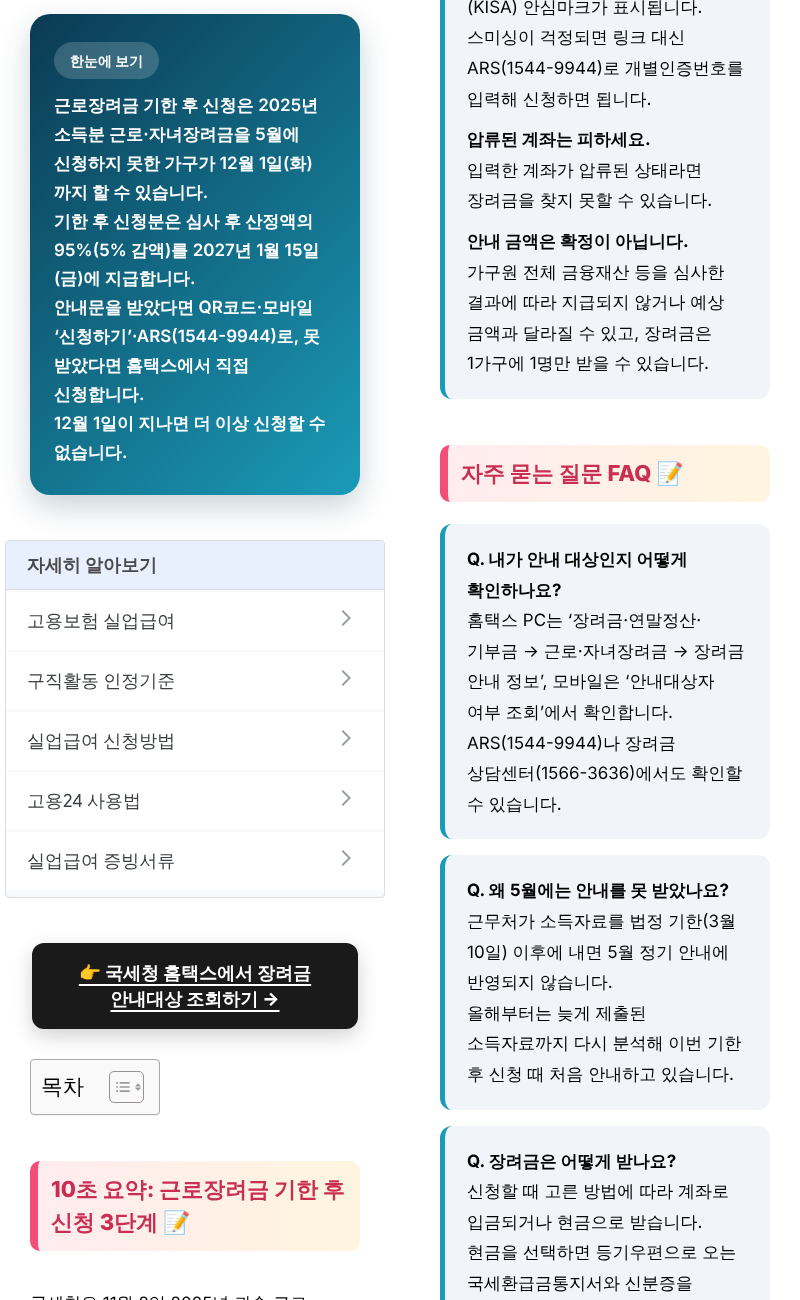
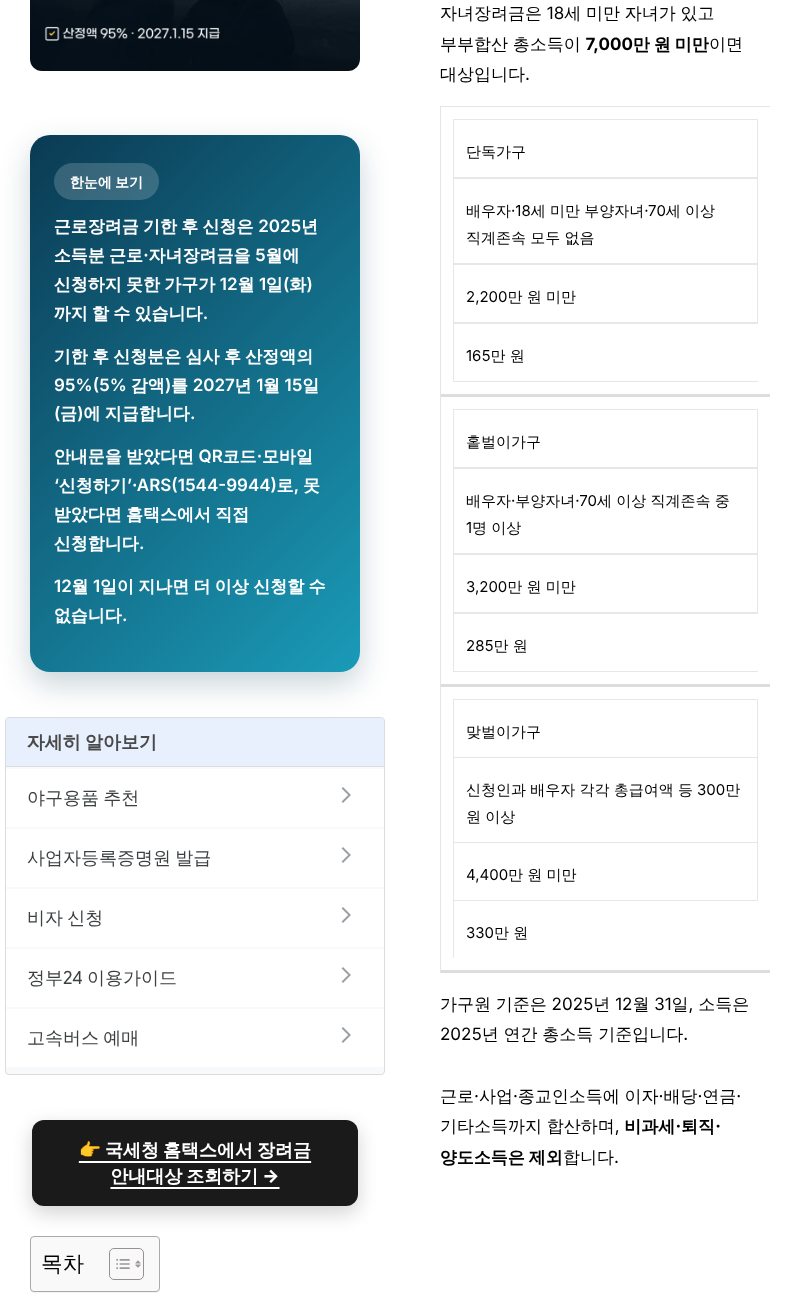
문장 사이 빈 줄 적용(디피로그 규칙 갱신)
Claude-Session: https://claude.ai/code/session_01Yan3NyTgRSbnPhHHKMb2cm

Changed region(s): [[0.0312, 0.0, 0.4688, 1.0], [0.5312, 0.3385, 0.9688, 1.0], [0.5312, 0.0, 0.9375, 0.3077]]

diff --git a/content/2026-11-06_근로자녀장려금-기한후신청/01_difilog_post.html b/content/2026-11-06_근로자녀장려금-기한후신청/01_difilog_post.html
@@ -17,7 +17,7 @@
 #onepage-eitc p{font-size:17px;line-height:1.8;}
 #onepage-eitc .difi-hero{background:linear-gradient(135deg,#0B3A53,#1A9BB8);color:#fff;padding:28px 24px;border-radius:20px;margin:20px 0;box-shadow:0 12px 30px rgba(11,58,83,.22);}
 #onepage-eitc .difi-hero .tag{display:inline-block;background:rgba(255,255,255,.18);padding:6px 16px;border-radius:999px;font-size:14px;font-weight:700;margin-bottom:12px;}
-#onepage-eitc .difi-hero .sum p{color:#fff;font-size:17px;line-height:1.7;margin:0;font-weight:600;}
+#onepage-eitc .difi-hero .sum p{color:#fff;font-size:17px;line-height:1.7;margin:0 0 14px;font-weight:600;}
 #onepage-eitc .difi-toc{background:#fff;padding:20px 24px;border-radius:12px;margin:16px 0 18px;color:#1f2937;}
 #onepage-eitc .difi-toc a{color:#1f2937 !important;text-decoration:none;}
 #onepage-eitc .difi-card{background:#fff;border:1px solid #e5e7eb;border-radius:20px;padding:24px;margin:16px 0;box-shadow:0 8px 24px rgba(15,23,42,.05);}
@@ -42,18 +42,18 @@
 <p><a class="detail-button" href="https://www.hometax.go.kr/" target="_blank" rel="noopener">👉 국세청 홈택스에서 장려금 안내대상 조회하기 →</a></p>
 
 <h2 id="sec1">10초 요약: 근로장려금 기한 후 신청 3단계 📝</h2>
-<p>국세청은 11월 2일 2025년 귀속 근로·자녀장려금을 아직 신청하지 않은 <strong>26만 가구</strong>에 기한 후 신청 안내문을 보냈습니다.<br>
+<p>국세청은 11월 2일 2025년 귀속 근로·자녀장려금을 아직 신청하지 않은 <strong>26만 가구</strong>에 기한 후 신청 안내문을 보냈습니다.<br><br>
 올해는 5월 이후 추가로 확인된 소득자료를 분석해 1만 가구도 새로 포함했습니다.</p>
 <div class="difi-card">
 <p style="margin:0 0 10px;"><strong>1단계</strong> · 안내대상인지 조회: 모바일 홈택스 <strong>'장려금·연말정산·기부금 → 근로·자녀장려금 → 안내대상자 여부 조회'</strong></p>
 <p style="margin:0 0 10px;"><strong>2단계</strong> · 신청: 우편 안내문 QR코드, 카카오톡·토스·문자 안내문의 '신청하기', 또는 ARS 1544-9944(06시~24시)</p>
 <p style="margin:0;"><strong>3단계</strong> · 지급방법 선택: 계좌 입금 또는 현금 수령 → 2027년 1월 15일(금) 지급 예정</p>
 </div>
-<p>모바일 홈택스와 ARS는 오전 6시부터 밤 12시까지 이용할 수 있습니다.<br>
+<p>모바일 홈택스와 ARS는 오전 6시부터 밤 12시까지 이용할 수 있습니다.<br><br>
 마감일인 12월 1일 밤에는 접속이 몰릴 수 있으니 미리 신청하는 편이 안전합니다.</p>
 
 <h2 id="sec2">30초 자가진단 + 소득 요건 비교 💡</h2>
-<p>근로장려금 기한 후 신청은 안내문이 없어도 할 수 있습니다.<br>
+<p>근로장려금 기한 후 신청은 안내문이 없어도 할 수 있습니다.<br><br>
 아래 5가지에 모두 해당하면 12월 1일까지 신청해 보세요.</p>
 <div class="difi-card">
 <p style="margin:0 0 12px;"><strong>☑ 2025년에 일한 소득이 있다</strong> · 근로·사업·종교인소득. 지금은 퇴직했어도 해당</p>
@@ -62,9 +62,9 @@
 <p style="margin:0 0 12px;"><strong>☑ 5월 정기 신청을 하지 않았다</strong></p>
 <p style="margin:0;"><strong>☑ 우리 가구에서 다른 사람이 신청하지 않았다</strong> · 장려금은 1가구 1명만 지급</p>
 </div>
-<p>재산이 1억 7천만 원 이상이면 산정액의 50%만 지급되니 금액 기대치를 미리 낮춰 두세요.<br>
+<p>재산이 1억 7천만 원 이상이면 산정액의 50%만 지급되니 금액 기대치를 미리 낮춰 두세요.<br><br>
 가구 유형은 아래 표로 구분합니다.</p>
-<p>근로장려금은 가구 유형별로 2025년 부부합산 총소득 기준이 다릅니다.<br>
+<p>근로장려금은 가구 유형별로 2025년 부부합산 총소득 기준이 다릅니다.<br><br>
 자녀장려금은 18세 미만 자녀가 있고 부부합산 총소득이 <strong>7,000만 원 미만</strong>이면 대상입니다.</p>
 <table class="difi-table">
 <thead><tr><th>가구 유형</th><th>가구원 기준</th><th>근로장려금 소득 기준</th><th>근로장려금 최대</th></tr></thead>
@@ -74,7 +74,7 @@
 <tr><td>맞벌이가구</td><td>신청인과 배우자 각각 총급여액 등 300만 원 이상</td><td>4,400만 원 미만</td><td>330만 원</td></tr>
 </tbody>
 </table>
-<p>가구원 기준은 2025년 12월 31일, 소득은 2025년 연간 총소득 기준입니다.<br>
+<p>가구원 기준은 2025년 12월 31일, 소득은 2025년 연간 총소득 기준입니다.<br><br>
 근로·사업·종교인소득에 이자·배당·연금·기타소득까지 합산하며, <strong>비과세·퇴직·양도소득은 제외</strong>합니다.</p>
 
 <h2 id="sec3">지급액과 재산 기준 🏦</h2>
@@ -85,53 +85,53 @@
 <p style="margin:0;"><strong>재산 기준</strong> · 가구원 전체 재산 합계 2억 4천만 원 미만(2025년 6월 1일 기준). 1억 7천만 원 이상이면 산정액의 50%만 지급</p>
 </div>
 <p>재산에는 부동산·승용차·분양권·전세금·예금·주식·회원권이 모두 들어가고 <strong>부채는 빼지 않습니다</strong>.<br>
-주택 전세금은 실제 전세금과 간주전세금(기준시가의 55%) 중 적은 금액을 적용합니다.<br>
+주택 전세금은 실제 전세금과 간주전세금(기준시가의 55%) 중 적은 금액을 적용합니다.<br><br>
 연말에 받을 세금 혜택도 함께 챙기려면 연말정산 미리보기를 같이 확인해 두세요.</p>
 <p><a class="detail-button" href="https://blog.difizone.com/%ec%97%b0%eb%a7%90%ec%a0%95%ec%82%b0-%eb%af%b8%eb%a6%ac%eb%b3%b4%ea%b8%b0/" rel="noopener">📄 연말정산 미리보기 홈택스 조회 방법 보기 →</a></p>
 <ins class="adsbygoogle" style="display:block;margin:40px 0;" data-ad-client="ca-pub-6003099227806863" data-ad-slot="1464416093" data-ad-format="auto" data-full-width-responsive="true"></ins><script>(adsbygoogle = window.adsbygoogle || []).push({});</script>
 <figure style="margin:30px 0;text-align:center;"><img src="{{본문이미지URL}}" alt="근로장려금 기한 후 신청 관련 이미지" style="max-width:100%;height:auto;border-radius:10px;" /><figcaption style="color:#888;font-size:0.85rem;margin-top:8px;">근로·자녀장려금 기한 후 신청은 12월 1일(화)까지 (사진: Sakin Shrestha, CC0)</figcaption></figure>
 
 <h2 id="sec4">근로장려금 기한 후 신청 경로: 안내문 받은 경우 vs 못 받은 경우 💰</h2>
-<p>근로장려금 기한 후 신청 경로는 <strong>안내문을 받았는지</strong>에 따라 달라집니다.<br>
+<p>근로장려금 기한 후 신청 경로는 <strong>안내문을 받았는지</strong>에 따라 달라집니다.<br><br>
 안내 대상이 아니면 ARS로는 신청할 수 없습니다.</p>
 <div class="difi-card">
 <p style="margin:0 0 10px;"><strong>안내문 받은 경우</strong> · 우편 안내문 QR코드, 카카오톡·토스·문자 모바일 안내문의 '신청하기', ARS 1544-9944 중 편한 방법으로 신청. 모바일·ARS가 어렵다면 장려금 상담센터(1566-3636, 평일 9시~18시)에 신청 도움을 요청할 수 있습니다.</p>
-<p style="margin:0;"><strong>안내문 못 받은 경우</strong> · 요건을 충족한다고 판단되면 근무처에서 받은 소득확인서 등 증빙서류를 첨부해 홈택스(PC·모바일) 또는 서면으로 신청합니다.<br>
+<p style="margin:0;"><strong>안내문 못 받은 경우</strong> · 요건을 충족한다고 판단되면 근무처에서 받은 소득확인서 등 증빙서류를 첨부해 홈택스(PC·모바일) 또는 서면으로 신청합니다.<br><br>
 경로: 홈택스 → 로그인 → 장려금 → 근로·자녀장려금 정기 신청 → 직접입력 신청</p>
 </div>
-<p>지금은 퇴직했더라도 2025년에 근로·사업·종교인소득이 있었다면 대상이 될 수 있습니다.<br>
+<p>지금은 퇴직했더라도 2025년에 근로·사업·종교인소득이 있었다면 대상이 될 수 있습니다.<br><br>
 아르바이트·일용근로로 잠깐 소득이 있었던 청년층도 한 번 조회해 보세요.</p>
 
 <h2 id="sec5">근로장려금 기한 후 신청 전 주의점 💡</h2>
 <div class="difi-note">
-<p style="margin:0 0 10px;"><strong>12월 1일이 지나면 신청할 수 없습니다.</strong><br>
+<p style="margin:0 0 10px;"><strong>12월 1일이 지나면 신청할 수 없습니다.</strong><br><br>
 기한 후 신청은 이번이 마지막 기회이며 이후에는 추가 신청이 불가합니다.</p>
-<p style="margin:0 0 10px;"><strong>모바일 안내문은 안심마크를 확인하세요.</strong><br>
-정식 안내문에는 한국인터넷진흥원(KISA) 안심마크가 표시됩니다.<br>
+<p style="margin:0 0 10px;"><strong>모바일 안내문은 안심마크를 확인하세요.</strong><br><br>
+정식 안내문에는 한국인터넷진흥원(KISA) 안심마크가 표시됩니다.<br><br>
 스미싱이 걱정되면 링크 대신 ARS(1544-9944)로 개별인증번호를 입력해 신청하면 됩니다.</p>
-<p style="margin:0 0 10px;"><strong>압류된 계좌는 피하세요.</strong><br>
+<p style="margin:0 0 10px;"><strong>압류된 계좌는 피하세요.</strong><br><br>
 입력한 계좌가 압류된 상태라면 장려금을 찾지 못할 수 있습니다.</p>
-<p style="margin:0;"><strong>안내 금액은 확정이 아닙니다.</strong><br>
+<p style="margin:0;"><strong>안내 금액은 확정이 아닙니다.</strong><br><br>
 가구원 전체 금융재산 등을 심사한 결과에 따라 지급되지 않거나 예상 금액과 달라질 수 있고, 장려금은 1가구에 1명만 받을 수 있습니다.</p>
 </div>
 
 <h2 id="sec6">자주 묻는 질문 FAQ 📝</h2>
-<div class="difi-note"><p style="margin:0;"><strong>Q. 내가 안내 대상인지 어떻게 확인하나요?</strong><br>홈택스 PC는 '장려금·연말정산·기부금 → 근로·자녀장려금 → 장려금 안내 정보', 모바일은 '안내대상자 여부 조회'에서 확인합니다.<br>
+<div class="difi-note"><p style="margin:0;"><strong>Q. 내가 안내 대상인지 어떻게 확인하나요?</strong><br>홈택스 PC는 '장려금·연말정산·기부금 → 근로·자녀장려금 → 장려금 안내 정보', 모바일은 '안내대상자 여부 조회'에서 확인합니다.<br><br>
 ARS(1544-9944)나 장려금 상담센터(1566-3636)에서도 확인할 수 있습니다.</p></div>
-<div class="difi-note"><p style="margin:0;"><strong>Q. 왜 5월에는 안내를 못 받았나요?</strong><br>근무처가 소득자료를 법정 기한(3월 10일) 이후에 내면 5월 정기 안내에 반영되지 않습니다.<br>
+<div class="difi-note"><p style="margin:0;"><strong>Q. 왜 5월에는 안내를 못 받았나요?</strong><br>근무처가 소득자료를 법정 기한(3월 10일) 이후에 내면 5월 정기 안내에 반영되지 않습니다.<br><br>
 올해부터는 늦게 제출된 소득자료까지 다시 분석해 이번 기한 후 신청 때 처음 안내하고 있습니다.</p></div>
-<div class="difi-note"><p style="margin:0;"><strong>Q. 장려금은 어떻게 받나요?</strong><br>신청할 때 고른 방법에 따라 계좌로 입금되거나 현금으로 받습니다.<br>
+<div class="difi-note"><p style="margin:0;"><strong>Q. 장려금은 어떻게 받나요?</strong><br>신청할 때 고른 방법에 따라 계좌로 입금되거나 현금으로 받습니다.<br><br>
 현금을 선택하면 등기우편으로 오는 국세환급금통지서와 신분증을 가지고 가까운 우체국에서 받으면 됩니다.</p></div>
-<div class="difi-note"><p style="margin:0;"><strong>Q. 내년부터 근로장려금이 늘어난다던데 지금 신청에도 적용되나요?</strong><br>아닙니다.<br>
-2026년 세법개정안에 담긴 확대안(최대 단독 180만·홑벌이 310만·맞벌이 360만 원, 소득기준 완화)은 2027년 1월 1일 이후 소득분(국세청 자료 기준 2027년 9월 신청분)부터 적용하는 정부 개정안입니다.<br>
+<div class="difi-note"><p style="margin:0;"><strong>Q. 내년부터 근로장려금이 늘어난다던데 지금 신청에도 적용되나요?</strong><br>아닙니다.<br><br>
+2026년 세법개정안에 담긴 확대안(최대 단독 180만·홑벌이 310만·맞벌이 360만 원, 소득기준 완화)은 2027년 1월 1일 이후 소득분(국세청 자료 기준 2027년 9월 신청분)부터 적용하는 정부 개정안입니다.<br><br>
 이번 근로장려금 기한 후 신청은 기존 기준이 적용됩니다.</p></div>
 
 <h2 id="sec7">마무리</h2>
-<p>근로장려금 기한 후 신청의 핵심은 세 가지입니다.<br>
-첫째, 마감은 <strong>12월 1일(화)</strong>이고 이후에는 신청할 수 없습니다.<br>
-둘째, 기한 후 신청은 산정액의 95%를 2027년 1월 15일에 받습니다.<br>
+<p>근로장려금 기한 후 신청의 핵심은 세 가지입니다.<br><br>
+첫째, 마감은 <strong>12월 1일(화)</strong>이고 이후에는 신청할 수 없습니다.<br><br>
+둘째, 기한 후 신청은 산정액의 95%를 2027년 1월 15일에 받습니다.<br><br>
 셋째, 안내문을 받았다면 QR·모바일·ARS로, 못 받았다면 홈택스에서 증빙을 첨부해 직접 신청합니다.</p>
-<p>부모님이나 아르바이트를 했던 가족 중 대상자가 있을 수 있으니 함께 조회해 보세요.<br>
+<p>부모님이나 아르바이트를 했던 가족 중 대상자가 있을 수 있으니 함께 조회해 보세요.<br><br>
 요건과 지급 일정은 국세청 공식 안내를 최종 기준으로 확인하시기 바랍니다.</p>
 <p><a class="detail-button" href="https://www.hometax.go.kr/" target="_blank" rel="noopener">👉 국세청 홈택스 장려금 신청 바로가기 →</a></p>
 <ins class="adsbygoogle" style="display:block;margin:40px 0;" data-ad-client="ca-pub-6003099227806863" data-ad-slot="1464416093" data-ad-format="auto" data-full-width-responsive="true"></ins><script>(adsbygoogle = window.adsbygoogle || []).push({});</script>

diff --git a/CLAUDE.md b/CLAUDE.md
@@ -43,7 +43,7 @@
   - 사진: WordPress Photo Directory(CC0, Openverse API `source=wordpress&license=cc0`)에서 검색·다운로드, photos/CREDITS.md에 기록.
   - 글꼴: tools/fonts/GmarketSans*.woff
 - 워프 업로드: `tools/wp_publish.py` (REST API). 앱 비밀번호 Basic 인증은 서버에서 막힘(401) → 쿠키 로그인 세션(WP_COOKIE_JAR, WP_NONCE_FILE)으로 업로드. **비밀번호는 저장소·파일에 절대 저장 금지**, 세션마다 사용자에게 받거나 크롬 로컬 세션 사용.
-- 광고 '광고' 라벨 넣지 않음 / 문장 끝 마침표마다 줄바꿈 / 목차는 플러그인 자동(직접 넣지 않음) / Rank Math 85점 이상(LAYOUT.md 7절).
+- 광고 '광고' 라벨 넣지 않음 / 문장 끝 마침표마다 빈 줄 한 줄(<br><br>) / 목차는 플러그인 자동(직접 넣지 않음) / Rank Math 85점 이상(LAYOUT.md 7절).
 - 폰트: Pretendard(OFL). 새 세션에서 없으면 github.com/orioncactus/pretendard 릴리스 zip을 ~/.fonts에 설치.
 
 ## 릴스 음성·음악·블로그 방문 이유 (사용자 요청 2026-11-06)

diff --git a/templates/difilog/LAYOUT.md b/templates/difilog/LAYOUT.md
@@ -25,7 +25,7 @@
 |---|---|
 | 제목(H1) | "주제 2026 총정리 (핵심 키워드·절차)" 또는 디피로그 기존 패턴 "주제 2026｜키워드·키워드 5가지" |
 | 소제목 H2 | 26px · **굵기 700** · 줄간격 1.35 · 색 #0B3A53 · 끝에 이모지 1개(📝💡🏦💰) · 위 44px/아래 18px 여백 |
-| 본문 p | 17px · 굵기 400 · 줄간격 1.8 · 문단 2~3문장 · **문장 끝 마침표마다 줄바꿈(<br>)** (사용자 지시 2026-11-06) |
+| 본문 p | 17px · 굵기 400 · 줄간격 1.8 · 문단 2~3문장 · **문장 끝 마침표마다 빈 줄(<br><br>)** (사용자 지시 2026-11-06) |
 | 강조 | `<strong>` 로 문단당 1~2곳만 |
 | 카드 | 흰 배경 · 1px #e5e7eb 테두리 · 둥글기 20px · 옅은 그림자 · "**항목** · 설명" 형식 |
 | 주의/FAQ 박스 | #f1f5f9 배경 · 왼쪽 5px 청록(#1A9BB8) 선 |
